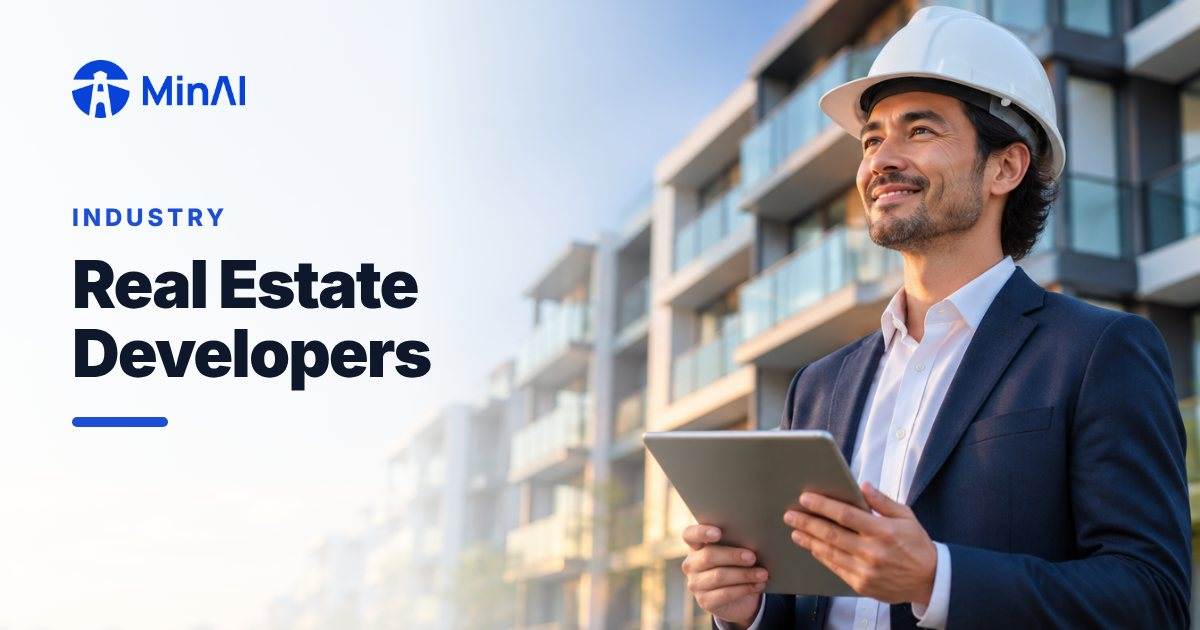
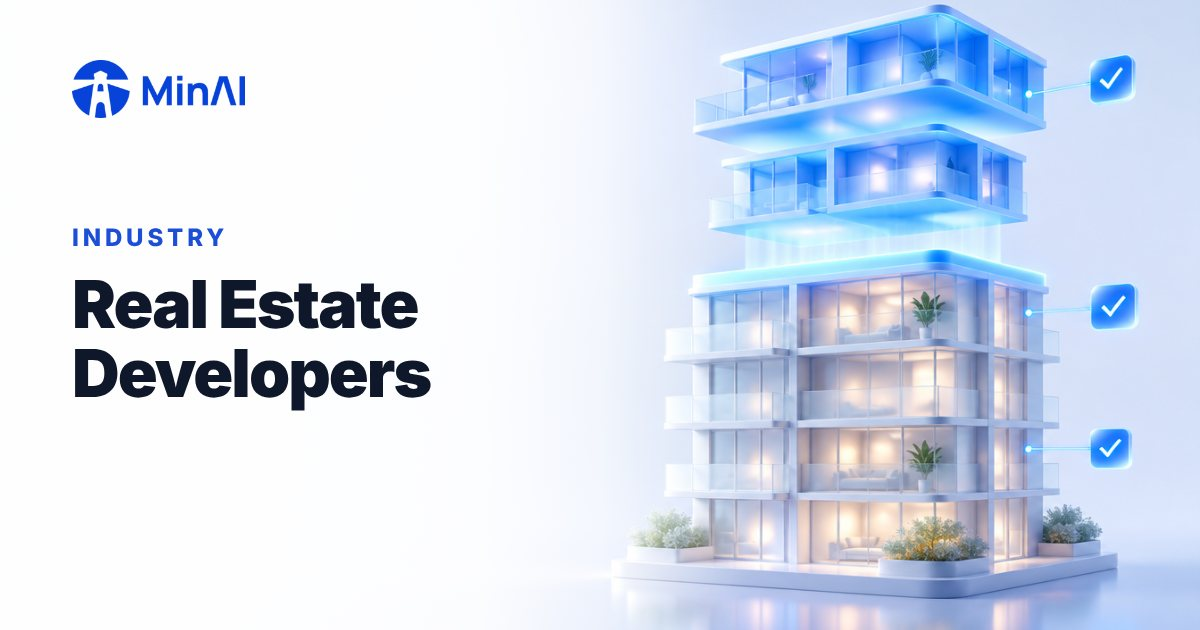
Replace link-preview thumbnails with people-free tech renders
17 new 3D tech-style backgrounds (frosted glass, MinAI blue glow, no people);
About keeps the founder photo. The underline bar under titles is removed and the
text side has a stronger white wash so titles stay readable. OG image URLs carry
?v=2 so chat apps and social networks fetch the new images.

Claude-Session: https://claude.ai/code/session_017x9H7R8chZgHtxp7E6iyjC

diff --git a/client/src/lib/seo.ts b/client/src/lib/seo.ts
@@ -30,6 +30,10 @@ export interface PageMeta {
   priority: number;
 }
 
+// Bump when the OG images change so chat apps and social networks fetch the new files.
+export const OG_VERSION = "2";
+export const ogImageUrl = (image: string) => `${SITE.url}${image}?v=${OG_VERSION}`;
+
 const abs = (path: string) => `${SITE.url}${path === "/" ? "/" : path}`;
 
 const ORG_ID = `${SITE.url}/#organization`;
@@ -342,7 +346,7 @@ const esc = (s: string) =>
 export function headTags(meta: PageMeta): string {
   const isNotFound = meta === notFoundMeta;
   const url = canonicalUrl(meta);
-  const image = `${SITE.url}${meta.image}`;
+  const image = ogImageUrl(meta.image);
   const tags = [
     `<title>${esc(meta.title)}</title>`,
     `<meta name="description" content="${esc(meta.description)}" />`,

diff --git a/client/src/components/SeoHead.tsx b/client/src/components/SeoHead.tsx
@@ -1,6 +1,6 @@
 import { useEffect } from "react";
 import { useLocation } from "wouter";
-import { SITE, canonicalUrl, getPageMeta, notFoundMeta } from "@/lib/seo";
+import { canonicalUrl, getPageMeta, notFoundMeta, ogImageUrl } from "@/lib/seo";
 
 function setTag(selector: string, create: () => HTMLElement, attr: string, value: string) {
   let el = document.head.querySelector<HTMLElement>(selector);
@@ -24,7 +24,7 @@ export function SeoHead() {
     window.scrollTo(0, 0);
     const page = getPageMeta(location);
     const url = canonicalUrl(page);
-    const image = `${SITE.url}${page.image}`;
+    const image = ogImageUrl(page.image);
 
     document.title = page.title;
     setTag('meta[name="description"]', meta("name", "description"), "content", page.description);

diff --git a/CLAUDE.md b/CLAUDE.md
@@ -119,7 +119,7 @@ npm run check
 
 - `client/src/lib/seo.ts` is the single source for every page's title, description, OG image, breadcrumbs and JSON-LD. Adding a page means adding a route in `App.tsx` **and** an entry in `pages` there; it then appears in the prerender, `sitemap.xml` and the HTML sitemap automatically.
 - `npm run build` runs the Vite client build, an SSR build of `client/src/entry-server.tsx`, then `script/prerender.mjs`, which writes `dist/public/<route>.html` with full content and head tags, `404.html` and `sitemap.xml`. `main.tsx` hydrates that HTML.
-- OG thumbnails live in `client/public/og/<page>.jpg` (1200×630, realistic photo + logo + short title). Pages without one use `og/default.jpg`.
+- OG thumbnails live in `client/public/og/<page>.jpg` (1200×630): a light, people-free 3D tech render (frosted glass, MinAI blue glow) on the right, logo + small label + short page title on the left, no underline bar. About uses the founder photo. Pages without one use `og/default.jpg`. When you replace images, bump `OG_VERSION` in `lib/seo.ts` so chat apps and social networks fetch the new files.
 - Google Drive demo videos render through `VideoFacade` (click to load). Its poster is `client/public/media/video-<driveId>.webp`, the video's own Drive thumbnail (`https://drive.google.com/thumbnail?id=<driveId>&sz=w1600`); add one whenever a new `demoVideoId` is added.
 - Above-the-fold blocks use `<AnimatedReveal immediate>` (CSS animation) so they paint without waiting for JS.
 - Analytics (GA4, Vercel Analytics) and the LeadConnector chat widget load only after cookie consent (`lib/consent.ts`, `CookieConsent.tsx`, `ConsentScripts.tsx`). Do not add tracking scripts to `index.html`; add them to `ConsentScripts.tsx` under the right category and list them in the cookie table in `Privacy.tsx`.
